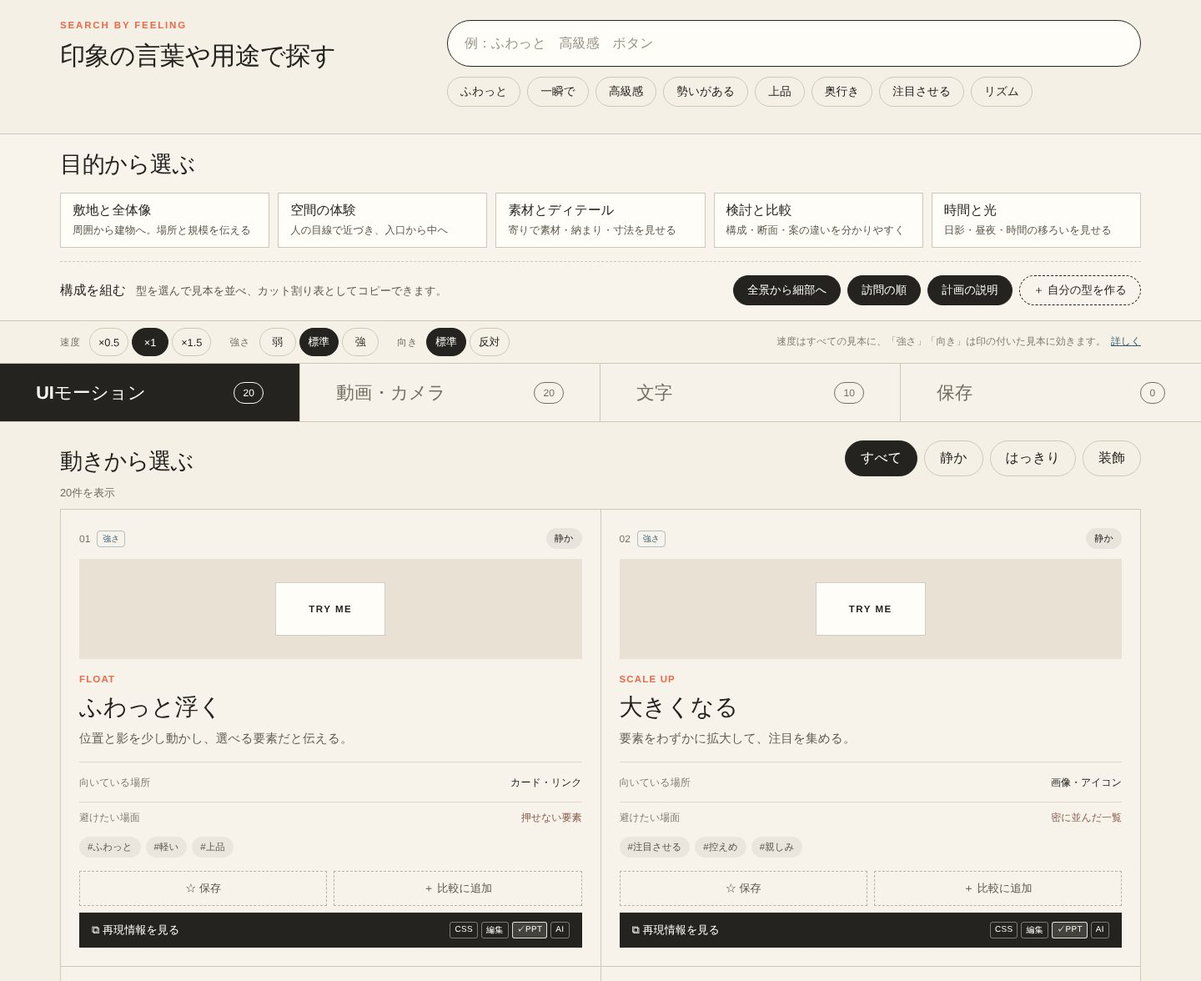
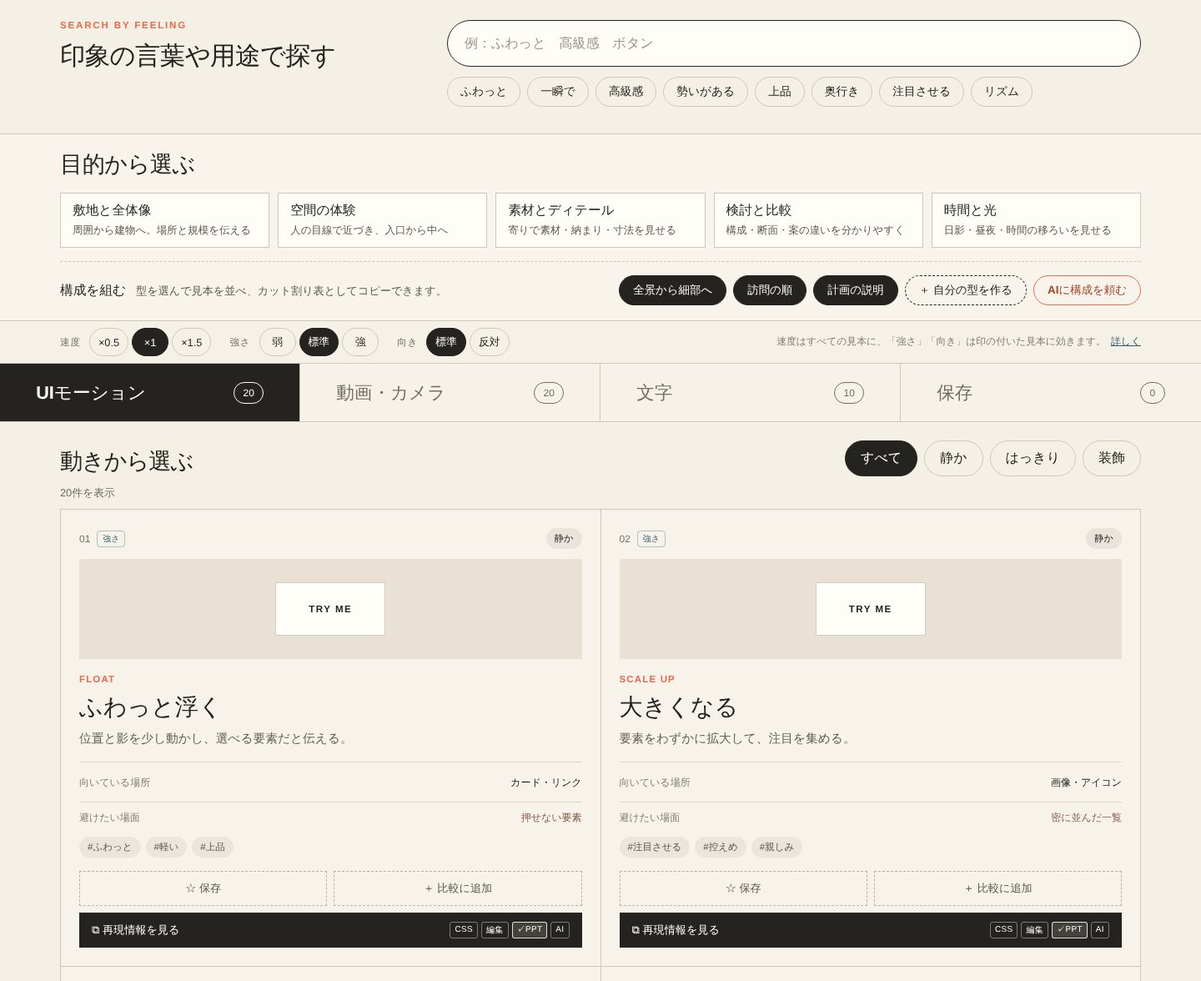
v1.0-2b：AIに構成を頼む（依頼文をコピーし、答えを読み込む） (#19)
- 場面・全体の長さ・主に使う道具・提案の数から、生成AI向けの依頼文を作ってコピー（見本50種類の一覧とJSONの形を含む。見本の一覧は data.ts などから自動で作る）
- AIの答えを貼り付けて読み込み、「自分の型」に追加。JSONの前後の文章やコードブロックは取り除いて読む
- 「目的から選ぶ」の下に「AIに構成を頼む」を追加。書きかけの場面は端末に保存
- 使い方ページ、画面マップ、README、ROADMAP、docs/STORYBOARD_JSON.md を更新

Claude-Session: https://claude.ai/code/session_01VCgd4bt3QxAx6uUzWaKxAk

Changed region(s): [[0.5, 0.2755, 0.9375, 0.3367]]

diff --git a/src/main.ts b/src/main.ts
@@ -10,6 +10,7 @@ import {
   type CustomTemplate, type StoryFileTemplate, storyTemplates, storyTemplateById, storyLimits,
   newStoryId, clampSeconds, toStoryFile, parseStoryFile,
 } from './storyboard'
+import { buildStoryPrompt, storyRequestTools, storyRequestLengths, lengthLabel } from './story-prompt'
 
 const totalSamples = samples.length + videoSamples.length + textSamples.length
 /** 番号（01 / V01 / T01）から見本を引く。比較パネルで使う */
@@ -164,7 +165,7 @@ app.innerHTML = `
       <p class="purpose-status" aria-live="polite" hidden><span></span><button class="purpose-clear" type="button">目的の選択を解除</button></p>
       <div class="story-entry">
         <div><strong>構成を組む</strong><span>型を選んで見本を並べ、カット割り表としてコピーできます。</span></div>
-        <div class="story-entry-buttons">${storyTemplates.map((template) => `<button class="story-open" type="button" data-story="${template.id}">${template.name}</button>`).join('')}<button class="story-open-custom" type="button">＋ 自分の型を作る</button></div>
+        <div class="story-entry-buttons">${storyTemplates.map((template) => `<button class="story-open" type="button" data-story="${template.id}">${template.name}</button>`).join('')}<button class="story-open-custom" type="button">＋ 自分の型を作る</button><button class="story-open-ai" type="button">AIに構成を頼む</button></div>
       </div>
     </section>
 
@@ -291,6 +292,40 @@ app.innerHTML = `
       </div>
       <div class="story-templates" role="tablist" aria-label="構成の型"></div>
       <div class="story-tools"></div>
+      <details class="story-ai">
+        <summary>AIに構成を頼む</summary>
+        <div class="story-ai-body">
+          <p class="story-ai-lead">場面を書いて依頼文をコピーし、ClaudeやChatGPTに貼り付けます。返ってきた答えを下に貼ると、「自分の型」に追加されます。</p>
+          <ol class="story-ai-steps">
+            <li>
+              <strong class="story-ai-step"><span>1</span>依頼文を作ってコピーする</strong>
+              <label class="story-field">場面（だれに、何を伝えたいか）
+                <textarea class="story-ai-situation" rows="3" maxlength="600" placeholder="例：工場の新しい厚生棟を、施主の役員に初めて説明する。敷地の広さと、社員が集まる吹抜けの明るさを伝えたい。"></textarea>
+              </label>
+              <div class="story-ai-options">
+                <label class="story-field">全体の長さ
+                  <select class="story-ai-length">${storyRequestLengths.map((seconds) => `<option value="${seconds}">${lengthLabel(seconds)}</option>`).join('')}</select>
+                </label>
+                <label class="story-field">主に使う道具
+                  <select class="story-ai-tool">${Object.entries(storyRequestTools).map(([key, label]) => `<option value="${key}">${label}</option>`).join('')}</select>
+                </label>
+                <label class="story-field">提案の数
+                  <select class="story-ai-count"><option value="1">1案</option><option value="2">2案</option><option value="3" selected>3案</option></select>
+                </label>
+              </div>
+              <div class="story-json-actions"><button type="button" class="story-ai-copy">依頼文をコピー</button></div>
+            </li>
+            <li>
+              <strong class="story-ai-step"><span>2</span>AIの答えを読み込む</strong>
+              <label class="story-paste">AIの答えを貼り付ける（JSONの前後に文章があっても読めます）
+                <textarea class="story-ai-answer" rows="3" placeholder="AIの答えをそのまま貼り付け"></textarea>
+              </label>
+              <div class="story-json-actions"><button type="button" class="story-ai-import">答えを読み込む</button></div>
+            </li>
+          </ol>
+          <p class="story-ai-status story-json-status" aria-live="polite"></p>
+        </div>
+      </details>
       <details class="story-json">
         <summary>JSONで書き出し・読み込み</summary>
         <div class="story-json-body">
@@ -1289,7 +1324,8 @@ const storyTool = document.querySelector<HTMLSelectElement>('.story-tool')!
 const storyTabsEl = document.querySelector<HTMLDivElement>('.story-templates')!
 const storyToolsEl = document.querySelector<HTMLDivElement>('.story-tools')!
 const storyMetaEl = document.querySelector<HTMLDivElement>('.story-meta')!
-const storyJsonStatus = document.querySelector<HTMLParagraphElement>('.story-json-status')!
+const storyJsonStatus = document.querySelector<HTMLParagraphElement>('.story-json .story-json-status')!
+const storyAiStatus = document.querySelector<HTMLParagraphElement>('.story-ai-status')!
 const storyKey = 'motion-sample-book:story'
 const storyCustomKey = 'motion-sample-book:story-custom'
 let storyTemplateId = storyTemplates[0].id
@@ -1602,6 +1638,7 @@ const openStory = (id: string, editing = false) => {
   storyTemplateId = id
   storyEditing = editing
   storyJsonStatus.textContent = ''
+  storyAiStatus.textContent = ''
   renderStory()
   if (!storyDialog.open) storyDialog.showModal()
 }
@@ -1692,12 +1729,15 @@ const download = (name: string, content: string) => {
   window.setTimeout(() => URL.revokeObjectURL(url), 1000)
 }
 
+let statusTarget: HTMLElement = storyJsonStatus
 const setJsonStatus = (message: string, error = false) => {
-  storyJsonStatus.textContent = message
-  storyJsonStatus.classList.toggle('is-error', error)
+  ;[storyJsonStatus, storyAiStatus].forEach((element) => { if (element !== statusTarget) element.textContent = '' })
+  statusTarget.textContent = message
+  statusTarget.classList.toggle('is-error', error)
 }
 
-const importStory = (source: string) => {
+const importStory = (source: string, target: HTMLElement = storyJsonStatus) => {
+  statusTarget = target
   try {
     const result = parseStoryFile(source, (number) => sampleByNumber.has(number))
     const room = storyLimits.templates - customTemplates.length
@@ -1752,3 +1792,48 @@ document.querySelector<HTMLInputElement>('.story-file-input')!.addEventListener(
 document.querySelector('.story-close')!.addEventListener('click', () => storyDialog.close())
 storyDialog.addEventListener('click', (event) => { if (event.target === storyDialog) storyDialog.close() })
 storyDialog.addEventListener('close', () => { stopStory(); storySlotsEl.innerHTML = '' })
+
+/* ---------- v1.0-2b AIに構成を頼む：依頼文をコピーし、AIの答え（JSON）を読み込む ---------- */
+const storyAi = document.querySelector<HTMLDetailsElement>('.story-ai')!
+const storyAiDraftKey = 'motion-sample-book:story-ai'
+const aiSituation = document.querySelector<HTMLTextAreaElement>('.story-ai-situation')!
+const aiLength = document.querySelector<HTMLSelectElement>('.story-ai-length')!
+const aiTool = document.querySelector<HTMLSelectElement>('.story-ai-tool')!
+const aiCount = document.querySelector<HTMLSelectElement>('.story-ai-count')!
+
+/** 書きかけの場面と条件は、端末に残しておく */
+const aiDraft = readJson<{ situation?: string, length?: string, tool?: string, count?: string }>(storyAiDraftKey, {}) ?? {}
+aiSituation.value = aiDraft.situation ?? ''
+if (aiDraft.length && [...aiLength.options].some((option) => option.value === aiDraft.length)) aiLength.value = aiDraft.length
+if (aiDraft.tool !== undefined && [...aiTool.options].some((option) => option.value === aiDraft.tool)) aiTool.value = aiDraft.tool
+if (aiDraft.count && [...aiCount.options].some((option) => option.value === aiDraft.count)) aiCount.value = aiDraft.count
+const saveAiDraft = () => writeJson(storyAiDraftKey, { situation: aiSituation.value, length: aiLength.value, tool: aiTool.value, count: aiCount.value })
+;[aiSituation, aiLength, aiTool, aiCount].forEach((element) => element.addEventListener('change', saveAiDraft))
+aiSituation.addEventListener('input', saveAiDraft)
+
+document.querySelector('.story-ai-copy')!.addEventListener('click', async (event) => {
+  const button = event.currentTarget as HTMLButtonElement
+  const prompt = buildStoryPrompt(
+    { situation: aiSituation.value, totalSeconds: Number(aiLength.value), count: Number(aiCount.value), tool: aiTool.value },
+    [['UIモーション', samples], ['動画・カメラ', videoSamples], ['文字', textSamples]],
+  )
+  const ok = await copyText(prompt)
+  flashCopied(button, ok)
+  statusTarget = storyAiStatus
+  setJsonStatus(ok
+    ? `依頼文（約${Math.round(prompt.length / 100) / 10}千字）をコピーしました。ClaudeやChatGPTに貼り付けて送り、返ってきた答えを下に貼ってください。`
+    : 'コピーできませんでした。ブラウザのクリップボードの許可を確認してください。', !ok)
+})
+
+document.querySelector('.story-ai-import')!.addEventListener('click', () => {
+  const answer = document.querySelector<HTMLTextAreaElement>('.story-ai-answer')!
+  if (!answer.value.trim()) { statusTarget = storyAiStatus; setJsonStatus('AIの答えを貼り付けてください。', true); return }
+  if (importStory(answer.value, storyAiStatus)) answer.value = ''
+})
+
+document.querySelector('.story-open-ai')!.addEventListener('click', () => {
+  openStory(storyTemplateId)
+  storyAi.open = true
+  aiSituation.focus()
+})
+

diff --git a/src/guide.ts b/src/guide.ts
@@ -33,7 +33,7 @@ const mapItems: { n: number, title: string, summary: string, section: string, si
   { n: 1, title: '検索欄', summary: '思い浮かんだ言葉で3つの見本帳を探す', section: 'search' },
   { n: 2, title: '感覚語のボタン', summary: '押すだけで検索語に追加・解除', section: 'search' },
   { n: 13, title: '目的から選ぶ', summary: '伝えたいことから見本をしぼり、使う順に並べる', section: 'purpose' },
-  { n: 14, title: '構成を組む', summary: '型に見本を並べ、カット割り表をコピー。自分の型も作れる', section: 'story' },
+  { n: 14, title: '構成を組む', summary: '型に見本を並べ、カット割り表をコピー。自分の型やAIの提案も', section: 'story' },
   { n: 3, title: '調整バー', summary: '速度・強さ・向きを変える', section: 'adjust' },
   { n: 4, title: 'タブ', summary: '見本帳と保存を切り替える（数字は件数）', section: 'libraries' },
   { n: 5, title: '雰囲気の絞り込み', summary: 'UIを「静か・はっきり・装飾」で絞る', section: 'libraries' },
@@ -187,6 +187,14 @@ const sections: Section[] = [
         <li>自分の型では、見本を${allSamples.length}種類すべてから選べます。複製元の候補は「この役割の候補」として先頭に出ます。</li>
         <li><kbd>この型を削除</kbd> は、2回続けて押すと削除します。</li>
       </ul>
+      <h4>AIに構成を頼む</h4>
+      <p>場面に合う構成を、ClaudeやChatGPTなどの生成AIに考えてもらえます。見本帳からAIへ直接はつながず、依頼文のコピーと答えの貼り付けでやりとりします。AIは、ふだん使っているClaudeやChatGPTをそのまま使います（見本帳の側でAPIキーや料金の設定はいりません）。</p>
+      <ol class="g-steps">
+        <li><strong>場面を書く</strong><span>「目的から選ぶ」の下の <kbd>AIに構成を頼む</kbd>（構成の画面では同じ名前の欄）を開き、だれに何を伝えたいかを書きます。全体の長さ、主に使う道具、提案の数（1〜3案）も選べます。</span></li>
+        <li><strong>依頼文をコピー</strong><span><kbd>依頼文をコピー</kbd> を押し、ClaudeやChatGPTに貼り付けて送ります。依頼文には、${allSamples.length}種類の見本の一覧と、答えの形（JSON）が入っています。</span></li>
+        <li><strong>答えを読み込む</strong><span>AIの答えをそのまま「AIの答えを貼り付ける」に貼り、<kbd>答えを読み込む</kbd> を押します。提案が「自分の型」（★）に追加され、そのまま再生・編集・カット割り表のコピーができます。</span></li>
+      </ol>
+      <p class="g-tip"><strong>メモ</strong>　AIが見本帳にない番号を使った場合は、候補の見本に置き換えるか、そのカットを外して知らせます。気に入らなければ、場面の書き方を変えて頼み直すか、読み込んだ型を編集してください。書きかけの場面は、この端末に残ります。</p>
       <h4>JSONで書き出し・読み込み</h4>
       <p>構成の画面の「JSONで書き出し・読み込み」を開きます。型を別の端末へ移したり、人と共有したりするときに使います。</p>
       <ul class="g-list">
@@ -308,7 +316,7 @@ const sections: Section[] = [
 
 /** 更新履歴。新しいものを上に追加する */
 const changelog: [string, string][] = [
-  ['v1.0（準備中）', '編集ソフト（After Effects・Premiere Pro）の再現情報を実機で確認し、13件を修正。構成を組む（全景から細部へ／訪問の順／計画の説明）と、カット割り表のコピー。複製や新規作成で自分の型を作り、JSONで書き出し・読み込み。再現情報を実機で確認（PowerPoint 50件、SketchUp・D5 Render 22件）し、修正と確認状態の印を反映。建築CG欄にD5 Renderの手順を追加。目的から選ぶ入口（敷地と全体像／空間の体験／素材とディテール／検討と比較／時間と光）と、カットの大きさの印（引き・中・寄り・目線）'],
+  ['v1.0（準備中）', 'AIに構成を頼む（依頼文をコピーし、答えのJSONを読み込む）。編集ソフト（After Effects・Premiere Pro）の再現情報を実機で確認し、13件を修正。構成を組む（全景から細部へ／訪問の順／計画の説明）と、カット割り表のコピー。複製や新規作成で自分の型を作り、JSONで書き出し・読み込み。再現情報を実機で確認（PowerPoint 50件、SketchUp・D5 Render 22件）し、修正と確認状態の印を反映。建築CG欄にD5 Renderの手順を追加。目的から選ぶ入口（敷地と全体像／空間の体験／素材とディテール／検討と比較／時間と光）と、カットの大きさの印（引き・中・寄り・目線）'],
   ['v0.6', '動画・カメラに建築寄りの8種類（日影の移動、平面図から立体へ、分解／組み上げ、クレーンアップ、プルバック、フライスルー、線画からレンダーへ、ミニチュア）、UIモーションに10種類（前後比較スライダー、画像のクリップ表示、視差、ケン・バーンズ、詳細へ拡大、カードの裏返し、カーテン遷移、グリッドの並び替え、横スクロール、ピンが落ちる）、文字に5種類（字間が開く、線で描かれる文字、数字のカウントアップ、寸法線と一緒に表示、引き出し線の注記）を追加し、合計50種類に'],
   ['v0.5', '再現情報（CSS、編集ソフト、PowerPoint、建築CG、生成AI）のコピー。建築CGの見本「断面カット」「デイ・トゥ・ナイト」を試験追加'],
   ['v0.4', '感覚語検索、2案比較、速度・強さ・向きの調整、保存とコレクション、使い方ページ'],

diff --git a/src/story-prompt.ts b/src/story-prompt.ts
@@ -1,0 +1,103 @@
+/**
+ * v1.0-2b「AIに構成を頼む」。場面を書くと、生成AI（Claude、ChatGPTなど）へ渡す依頼文を作る。
+ * 依頼文には、見本の一覧（番号・名前・説明・向いている場面・カットの大きさ・目的）と、
+ * 構成のJSONの形（docs/STORYBOARD_JSON.md）を入れる。AIが返したJSONは、自分の型と同じ読み込み口から取り込む。
+ *
+ * API・サーバーは使わない。見本の一覧は data.ts などから毎回作るので、見本を足しても依頼文は古くならない。
+ */
+import type { Sample } from './data'
+import { purposesOf, shotScale } from './purposes'
+import { storyFormat, storyFormatVersion, storyLimits, storyTemplates } from './storyboard'
+
+export type StoryRequest = {
+  /** 場面（どんな相手に、何を伝えたいか） */
+  situation: string
+  /** 全体の長さ（秒）。0はおまかせ */
+  totalSeconds: number
+  /** 提案の数（1〜3） */
+  count: number
+  /** 主に使う道具。空はおまかせ */
+  tool: string
+}
+
+export const storyRequestTools: Record<string, string> = {
+  '': 'おまかせ',
+  powerpoint: 'PowerPoint（スライドのアニメーション・画面切り替え）',
+  edit: '動画編集（Premiere Pro／After Effects）',
+  cg: '建築CG（SketchUp／D5 Renderなど）のカメラワーク',
+  prompt: '生成AIでの動画づくり（1枚のパースや画像から）',
+}
+
+export const storyRequestLengths = [0, 15, 30, 60, 90, 180]
+export const lengthLabel = (seconds: number) => {
+  if (seconds === 0) return 'おまかせ'
+  const minutes = Math.floor(seconds / 60)
+  const rest = seconds % 60
+  return `約${minutes ? `${minutes}分` : ''}${rest ? `${rest}秒` : ''}`
+}
+
+const line = (text: string) => text.replace(/\s+/g, ' ').trim()
+
+/** 見本の一覧（1行1件）。AIが番号を取り違えないよう、番号を行頭に置く */
+export const sampleCatalog = (groups: [string, Sample[]][]) => groups.map(([label, list]) => [
+  `### ${label}`,
+  ...list.map((sample) => {
+    const extras = [
+      shotScale[sample.number] ? `カット:${shotScale[sample.number]}` : '',
+      purposesOf(sample.number).length ? `目的:${purposesOf(sample.number).map((purpose) => purpose.name).join('・')}` : '',
+    ].filter(Boolean).join('／')
+    return `- ${sample.number} ${sample.name}（${sample.english}）：${line(sample.description)} 向く：${line(sample.hint)} 避ける：${line(sample.avoid)}${extras ? `【${extras}】` : ''}`
+  }),
+].join('\n')).join('\n\n')
+
+/** 最初からある型を、構成の例として短く示す */
+const templateExamples = () => storyTemplates.map((template) => `- ${template.name}：${template.slots.map((slot) => `${slot.role}（${slot.candidates[0]}）`).join(' → ')}`).join('\n')
+
+export const buildStoryPrompt = (request: StoryRequest, groups: [string, Sample[]][]) => {
+  const count = Math.min(Math.max(Math.round(request.count) || 1, 1), 3)
+  const situation = request.situation.trim()
+  const conditions = [
+    `- 場面：${situation || '（未記入。建築プレゼンの一般的な場面として考えてください）'}`,
+    `- 全体の長さ：${lengthLabel(request.totalSeconds)}`,
+    `- 主に使う道具：${storyRequestTools[request.tool] ?? storyRequestTools['']}`,
+    `- 提案の数：${count}案${count > 1 ? '（流れの考え方が違う案にしてください）' : ''}`,
+  ]
+  const example = {
+    format: storyFormat,
+    version: storyFormatVersion,
+    templates: [{
+      name: '案の名前（20文字程度）',
+      description: 'この構成のねらいと流れ（1〜2文）',
+      slots: [
+        { role: 'カットの役割', note: 'このカットで伝えること', sample: 'V16', seconds: 5, candidates: ['V16', 'V20', 'V08'] },
+      ],
+    }],
+  }
+  return `あなたは建築プレゼンテーションの映像・スライド構成を考えるディレクターです。
+下の「場面」に合う構成（カット割り）を、「モーション見本帳」の見本から選んで提案してください。
+
+## 場面と条件
+${conditions.join('\n')}
+
+## 構成の考え方
+- 建築の映像やプレゼンは、目的と流れでカットを選びます（例：周囲 → 建物 → 空間 → ディテール、近づく → 入口 → 室内）。
+- 引き（場所・全体）→ 中 → 寄り（素材・納まり）のように、カットの大きさに変化をつけてください。
+- 文字の見本（T）は、タイトル・数値・注記など、伝える情報があるカットに使ってください。
+- 1カットは${storyLimits.minSeconds}〜${storyLimits.maxSeconds}秒、1案は${storyLimits.slots}カットまで。全体の長さの指定があれば、秒数の合計をそれに近づけてください。
+- 見本帳にある構成の例：
+${templateExamples()}
+
+## 使える見本（この番号だけを使う）
+${sampleCatalog(groups)}
+
+## 答え方
+- 次の形のJSONだけを、1つのコードブロックで返してください。説明の文章はJSONの外に書かないでください。
+- sample には上の一覧にある番号だけを使ってください（例：V08、T03、12）。
+- candidates には、そのカットの代わりになる見本を、おすすめ順に2〜3個入れてください（sample を先頭に）。
+- role・note・name・description は日本語で書いてください。
+
+\`\`\`json
+${JSON.stringify(example, null, 2)}
+\`\`\`
+`
+}

diff --git a/src/style.css b/src/style.css
@@ -258,6 +258,23 @@ body.has-compare-tray footer { padding-bottom: 110px; }
 .story-tools button.is-on { background: var(--ink); border-color: var(--ink); color: var(--cream); }
 .story-tools button.is-armed { background: #a8432b; border-color: #a8432b; color: #fff; }
 .story-tools-note { font-size: .74rem; color: #827c70; }
+.story-open-ai { border: 1px solid var(--coral); background: transparent; color: #a8432b; border-radius: 999px; padding: 8px 16px; font-size: .84rem; font-weight: 600; cursor: pointer; }
+.story-open-ai:hover, .story-open-ai:focus-visible { background: rgba(234,107,77,.1); }
+.story-open-ai:focus-visible, .story-open-custom:focus-visible { outline: 3px solid var(--blue); outline-offset: 2px; }
+.story-ai { margin-bottom: 8px; border: 1px solid rgba(234,107,77,.45); border-radius: 6px; background: rgba(234,107,77,.05); }
+.story-ai summary { padding: 8px 12px; font-size: .8rem; font-weight: 600; cursor: pointer; color: #a8432b; }
+.story-ai summary:focus-visible { outline: 2px solid var(--blue); outline-offset: 2px; }
+.story-ai-body { display: grid; gap: 10px; padding: 0 12px 12px; }
+.story-ai-lead { margin: 0; font-size: .8rem; color: #5b574e; line-height: 1.6; }
+.story-ai-steps { margin: 0; padding: 0; list-style: none; display: grid; gap: 14px; }
+.story-ai-steps > li { display: grid; gap: 8px; }
+.story-ai-step { display: flex; align-items: center; gap: 8px; font-size: .84rem; }
+.story-ai-step span { display: grid; place-items: center; width: 20px; height: 20px; border-radius: 50%; background: var(--coral); color: #fff; font-size: .7rem; }
+.story-ai-situation { width: 100%; box-sizing: border-box; padding: 6px 8px; border: 1px solid var(--line); border-radius: 6px; background: var(--cream); font: inherit; font-size: .84rem; line-height: 1.6; color: var(--ink); resize: vertical; }
+.story-ai-options { display: flex; flex-wrap: wrap; gap: 8px 12px; }
+.story-ai-options .story-field { min-width: 140px; }
+.story-ai-copy { background: var(--ink) !important; border-color: var(--ink) !important; color: var(--cream) !important; font-weight: 600; }
+.story-ai-copy.is-copied { background: var(--blue) !important; border-color: var(--blue) !important; }
 .story-json { margin-bottom: 12px; border: 1px solid var(--line); border-radius: 6px; background: rgba(255,253,247,.5); }
 .story-json summary { padding: 8px 12px; font-size: .8rem; cursor: pointer; color: #5b574e; }
 .story-json-body { display: grid; gap: 8px; padding: 0 12px 12px; }

diff --git a/src/storyboard.ts b/src/storyboard.ts
@@ -115,6 +115,26 @@ export const normalizeNumber = (value: unknown) => {
   return match ? `${match[1]}${match[2].padStart(2, '0')}` : raw
 }
 
+/**
+ * 生成AIの答えは、前後に文章やコードブロック（```json … ```）が付くことがある。
+ * そのまま読めなければ、コードブロックの中、または最初の { から最後の } までを取り出す。
+ */
+export const extractJson = (source: string) => {
+  const text = source.trim()
+  const fence = text.match(/```(?:json)?\s*([\s\S]*?)```/i)?.[1]?.trim()
+  const start = text.search(/[{[]/)
+  const end = Math.max(text.lastIndexOf('}'), text.lastIndexOf(']'))
+  const sliced = start >= 0 && end > start ? text.slice(start, end + 1) : undefined
+  for (const candidate of [text, fence, sliced]) {
+    if (!candidate) continue
+    try {
+      JSON.parse(candidate)
+      return candidate
+    } catch { /* 次の候補を試す */ }
+  }
+  return text
+}
+
 export type StoryImport = { templates: Omit<CustomTemplate, 'id'>[], warnings: string[] }
 
 /**
@@ -127,7 +147,7 @@ export type StoryImport = { templates: Omit<CustomTemplate, 'id'>[], warnings: s
 export const parseStoryFile = (source: string, exists: (number: string) => boolean): StoryImport => {
   let data: unknown
   try {
-    data = JSON.parse(source)
+    data = JSON.parse(extractJson(source))
   } catch {
     throw new Error('JSONとして読めませんでした。括弧やカンマの抜けがないか確認してください。')
   }

diff --git a/docs/STORYBOARD_JSON.md b/docs/STORYBOARD_JSON.md
@@ -39,6 +39,8 @@
 | `slots[].seconds` | 任意 | 秒数。1〜30に直す（なければ5秒） |
 | `slots[].candidates` | 任意 | 候補の見本（おすすめ順）。`sample` が存在しない番号なら、候補の先頭に置き換える |
 
+生成AIの答えのように、JSONの前後に文章やコードブロック（```json … ```）が付いていても、中のJSONを取り出して読みます。
+
 `templates` のない、型1つだけのオブジェクト（`name` と `slots`）や、型の配列も読み込めます。
 
 ## 読み込むときの扱い
@@ -46,3 +48,7 @@
 - 存在しない見本の番号は、候補があれば候補の先頭に置き換え、なければそのカットを外して知らせます。
 - 使える見本が1つもない型は取り込みません。
 - 取り込んだ型は「自分の型」に追加され、この端末のブラウザに保存されます（最大50件）。
+
+## AIへの依頼文
+
+構成の画面の「AIに構成を頼む」でコピーする依頼文は `src/story-prompt.ts` の `buildStoryPrompt` で作ります。場面・全体の長さ・主に使う道具・提案の数に加え、見本の一覧（番号・名前・説明・向く／避ける場面・カットの大きさ・目的）と、この形の例を入れています。見本を足すと依頼文にも自動で入ります。

diff --git a/README.md b/README.md
@@ -47,6 +47,7 @@
 - 建築プレゼンの目的（敷地と全体像、空間の体験など）から見本を選び、使う順に並べて見る
 - 構成の型（全景から細部へ、訪問の順、計画の説明）に見本を並べ、カット割り表を再現情報ごとコピーする
 - 自分の型を作り、JSONで書き出し・読み込みする（形は `docs/STORYBOARD_JSON.md`）
+- 場面を書いてAIへの依頼文をコピーし、AIが返した構成を読み込む（依頼文は `src/story-prompt.ts`。見本の一覧は自動で作る）
 - 感覚語や用途で、3つの見本帳をまとめて検索する
 - 2つの見本を横に並べて、同時に再生して比べる
 - 速度・強さ・向きを変えて再生する
